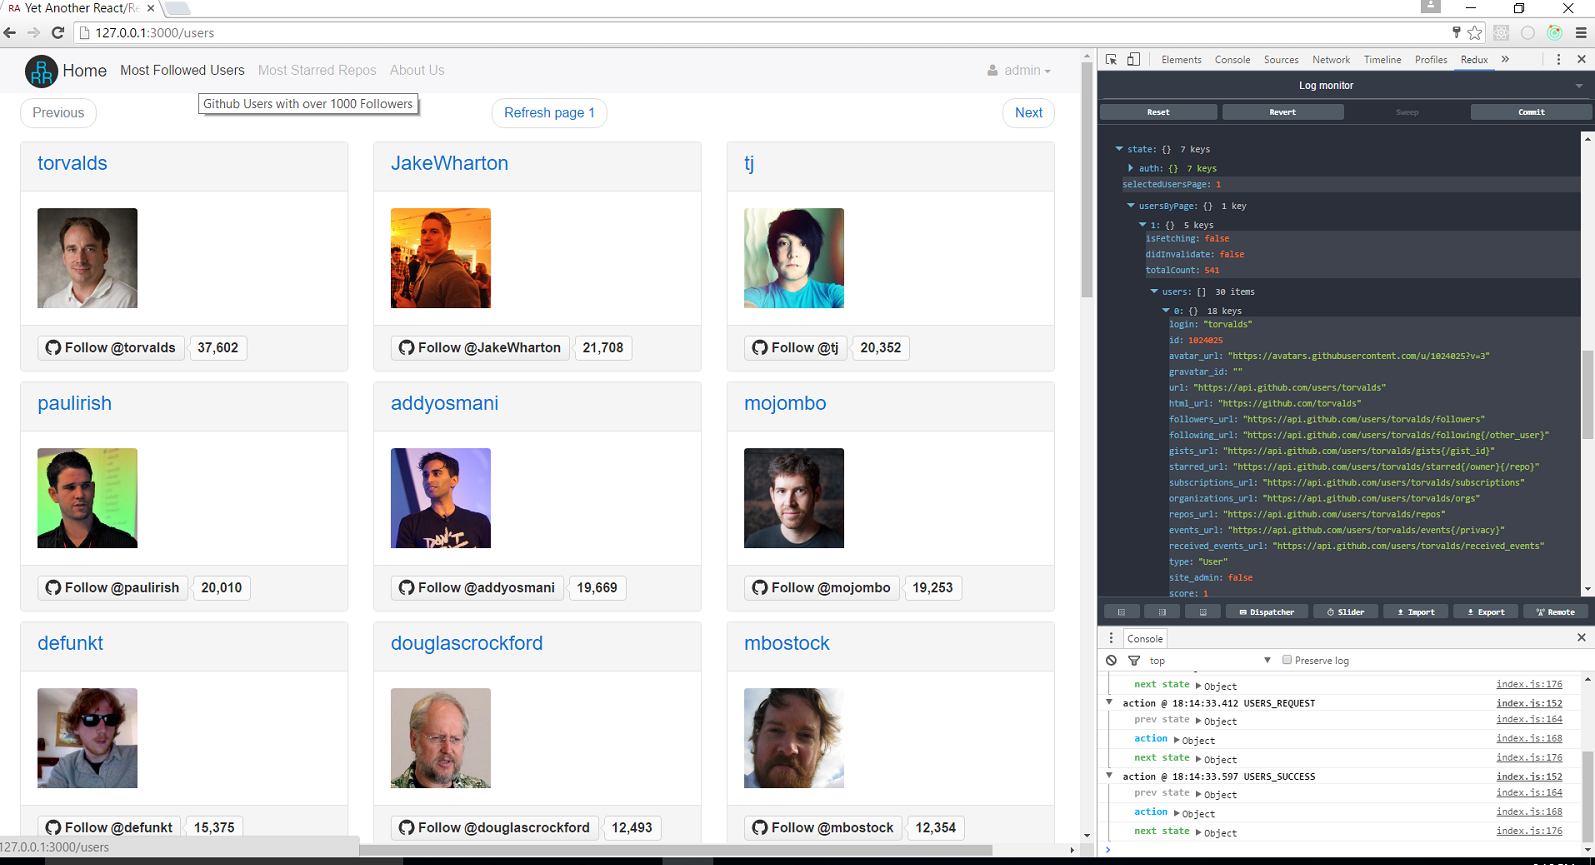
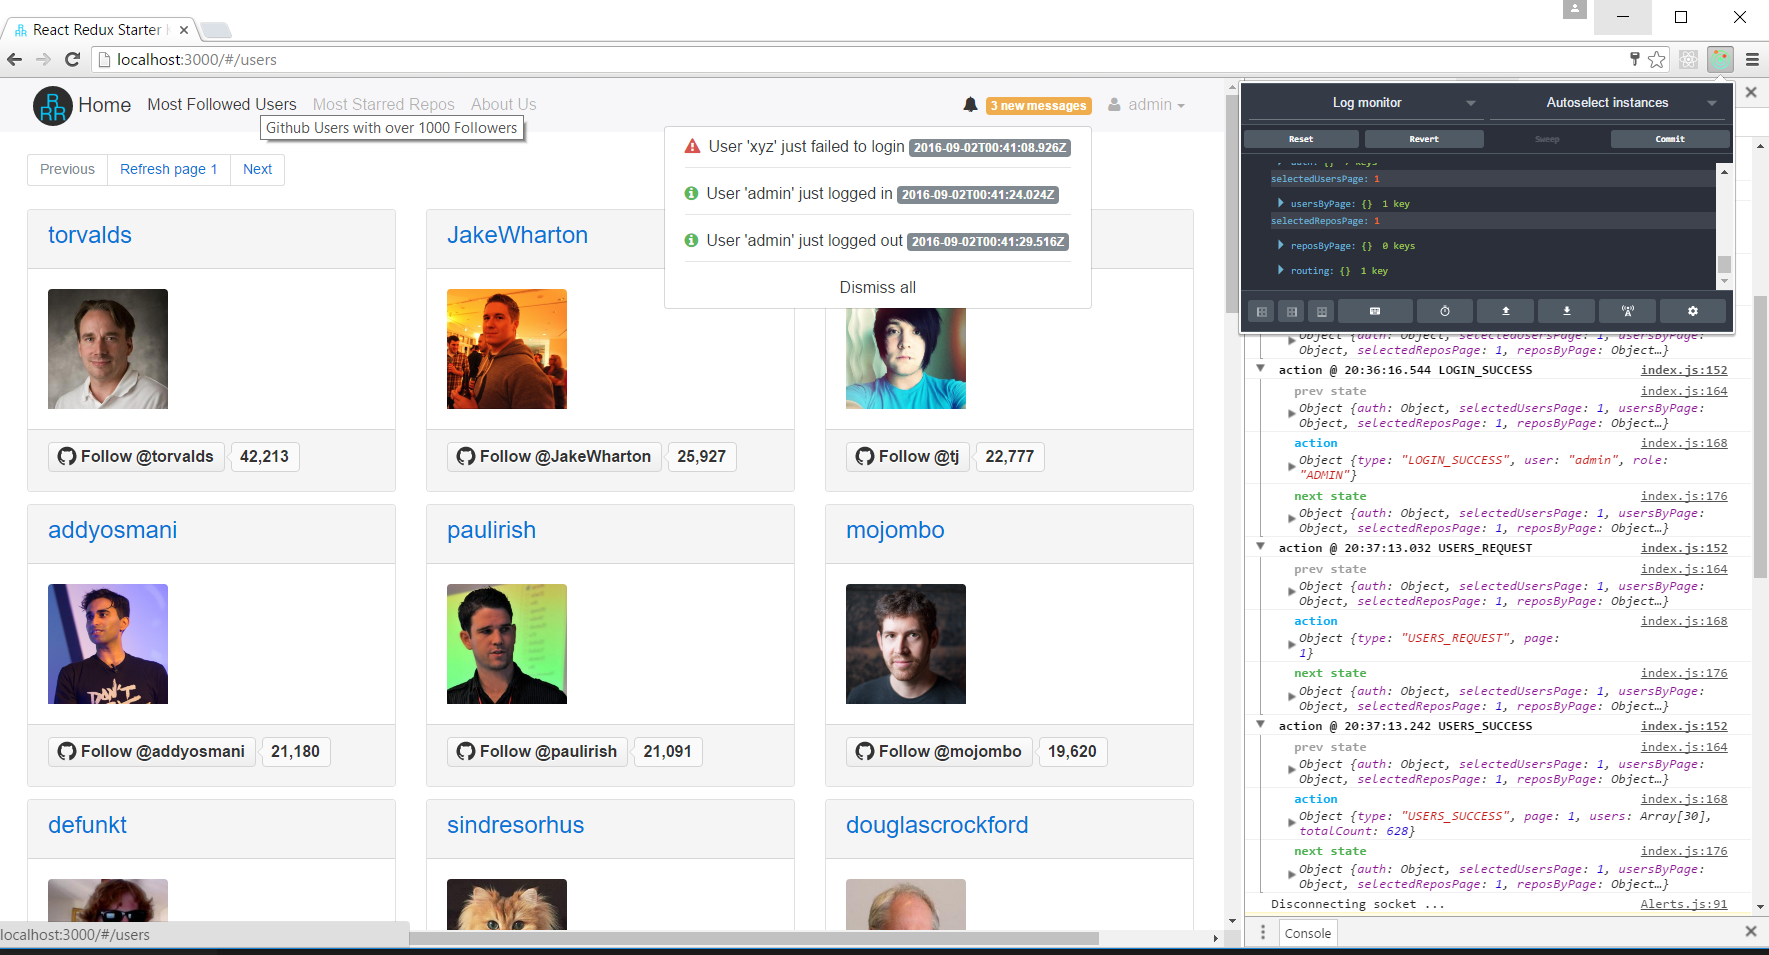
add server alerts via socket.io

diff --git a/src/containers/home/Home.js b/src/containers/home/Home.js
@@ -16,8 +16,9 @@ export default class Home extends Component {
               <a href="https://github.com/facebook/react" target="_blank"> React</a>,
               <a href="https://github.com/gaearon/redux" target="_blank"> Redux</a>,
               <a href="https://github.com/rackt/react-router" target="_blank"> React-Router</a>,
-              <a href="https://github.com/twbs/bootstrap " target="_blank"> Bootstrap</a>, and
-              <a href="https:// https://jwt.io" target="_blank"> JSON Web Token</a>
+              <a href="https://github.com/twbs/bootstrap " target="_blank"> Bootstrap</a>,
+              <a href="https://https://jwt.io" target="_blank"> JSON Web Token</a>, and
+              <a href="http://socket.io" target="_blank"> Socket.IO</a>
             ) used together to develop a more complex web
             application, with features such as authentication, navigation, asynchronous data fetching, error handling, caching and pagination, etc.
             </p>
@@ -50,8 +51,9 @@ export default class Home extends Component {
             <li><a href="https://github.com/rackt/react-router" target="_blank">React Router</a></li>            
             <li><a href="https://github.com/twbs/bootstrap " target="_blank"> Bootstrap</a></li>
             <li><a href="https://jwt.io" target="_blank">JSON Web Token</a></li>
+            <li><a href="http://socket.io" target="_blank"> Socket.IO</a></li>
             <li><a href="https://github.com/facebookincubator/create-react-app/" target="_blank">create-react-app</a></li>          
-            <li><a href="http://babeljs.io" target="_blank">Babel</a> and <a href="http://webpack.github.io" target="_blank"> Webpack</a> (now behind the scene thanks to create-react-app)</li>
+            <li><a href="http://babeljs.io" target="_blank">Babel</a> and <a href="http://webpack.github.io" target="_blank"> Webpack</a> (now behind the scenes thanks to create-react-app)</li>
 
           </ul>
 
@@ -99,33 +101,20 @@ export default class Home extends Component {
               When accessing restricted pages without signing in first, the application would redirect to the <code>Login</code> page.
               You can log in as user "admin" and password "password".  The authentication is based on JSON Web Token (JWT).
             </dd><br />
+            
+            <dt>WebSocket</dt>
+            <dd>
+              A "server alerts/notifications" use case is implemented to showcase Socket.IO.  Whenever a client logs in/out of the application using the API server, 
+              the API server will notify currently connected clients via Socket.IO.  You can test this use case by opening the the web app in two browsers side by side, 
+              and then log in/out the webapp in one browser, and observe the messages in the other browser.  The messages are pushed from the server to the clients in "real time", 
+              and show up as <code>Alerts</code> in the header section of the web app.
+            </dd><br />
 
             <dt>Non-Univeral</dt>
             <dd>
               Most people probably would listed this under "issues" or "wish list" instead, since these days a web application is not "cutting edge"
               or "cool" if it's not universal (isomorphic). However there are many cases
               where server-side rendering is simply not required or applicable (e.g. Java backend instead of Node).
-            </dd>
-          </dl>
-
-          <h3>Wish List / Known Issues</h3>
-          <dl>
-            <dt>DRY issues in async actions</dt>
-            <del>
-              <dd>
-                The two sets of aync actions (<code>users</code> and <code>repos</code>) apparently can/should be refactored to extract and re-use the common code.<br />
-                The most obvious is the middleware approach illustrated in the excellent Redux documentation. But I am still digesting it.
-              </dd>
-            </del>
-              <dd>
-                [New]: The async actions (involving restful api calls for authentication and fetching Github users and repos) are now refactored to go through a common
-                utility <code>callApi</code>.
-              </dd>
-
-            <br />
-            <dt>WebSocket</dt>
-            <dd>
-              It would be interesting to show a use case of WebSocket, which is common for a real-world web application.
             </dd>
           </dl>
         </div>

diff --git a/src/components/header/Alerts.js b/src/components/header/Alerts.js
@@ -1,0 +1,72 @@
+import React, {Component} from 'react';
+import io from 'socket.io-client';
+import classNames from 'classnames';
+
+class Alerts extends Component {
+
+  componentWillMount(){
+    this.state = {
+      alerts: []
+    };
+
+    this.socket = io();  
+    this.socket.on('connect_error', () => {    
+      console.log("Socket.io connection error. Disconnecting socket ...");
+      this.socket.disconnect();
+      this.setState(
+        {
+          alerts: [{type: 'error', message: 'Socket.IO connection error. No message from server.', time: new Date().toString()}],
+        }
+      );
+    }); 
+
+    this.socket.on('alert', (data) => {               
+      console.log(`Alert received from server: ${JSON.stringify(data)}`);
+      const alerts = this.state.alerts || [];
+      this.setState({ alerts: [...alerts, data] });
+    });
+  }
+
+  componentWillUnmount(){
+    console.log("Disconnecting socket ...");
+     this.socket.disconnect();
+  }
+
+  dismiss = () => {
+    this.setState({ alerts: [] });
+  }
+
+  alert = (type, message, time) => {
+    const iconClass = classNames('fa', {'fa-info-circle text-success': type==='info'}, {'fa-warning text-danger': type==='error'});
+    return <span><i style={{marginRight: '0.5em'}} className={iconClass}/>{message}{' '}<span className="tag tag-default">{time}</span></span>;
+  }
+
+  render() {
+    const { alerts } = this.state;
+    const count = (alerts && alerts.length) || 0;
+    const badge = count<=1 ? `${count} new message` : `${count} new messages`;
+    return (
+    <li className="dropdown nav-item">
+        <a href="#" className="nav-link" data-toggle="dropdown" role="button" aria-haspopup="true" aria-expanded="false">
+          <i className="fa fa-bell warning" style={{marginRight: '0.5em'}}></i><span className="tag tag-warning">{badge}</span>
+        </a>
+        <ul className="dropdown-menu" style={{right:0, left: 'auto'}}>
+          {count > 0 && (
+            alerts.map((alert, i) =>
+              <a key={i} className="dropdown-item">
+                {this.alert(alert.type, alert.message, alert.time)}
+                <div className="dropdown-divider"></div>
+              </a>
+            )
+          )}
+
+          {count > 0 &&
+            <button className="dropdown-item" style={{textAlign: 'center'}} href="#" title="Dismiss all" onClick={this.dismiss}>Dismiss all</button>
+          }
+        </ul>
+    </li>
+  );
+  }
+}
+
+export default Alerts;

diff --git a/server/server.js b/server/server.js
@@ -1,10 +1,12 @@
 /** 
  * This is a simple express server, to show basic authentication services (login and logout requests)
- * based JWT.
+ * based JWT, and basic socket.io.
  * 
  * Once a user is authenticated, a jwt token will be returned as response to the client. 
  * It's expected the jwt token will be included in the subsequent client requests. The server
  * can then protect the services by verifying the jwt token in the subsequent API requests.
+ * 
+ * The server will also broadcast the login/logout events to connected clients via socket.io.
  * 
  */
 var express = require('express');
@@ -13,10 +15,13 @@ var jwt = require('jsonwebtoken');
 var port = 3001;
 
 // Configure app to use bodyParser to parse json data
-var app = express();                
+var app = express(); 
+var server = require('http').createServer(app);  
 app.use(bodyParser.urlencoded({ extended: true }));
 app.use(bodyParser.json());
 
+// and support socket io
+var io = require('socket.io')(server);             
 
 // Test server is working (GET http://localhost:3001/api)
 app.get('/api/', function(req, res) {
@@ -42,10 +47,20 @@ app.post('/api/login', function(req, res) {
     res.status(200).json({
       id_token: jwtToken
     });
+
+    alertClients('info', `User '${credentials.user}' just logged in`);
   }else{
     res.status(401).json({'message': 'Invalid user/password'});
+    
+    alertClients('error', `User '${credentials.user}' just failed to login`);
   }
 });
+
+// Alerts all clents via socket io.
+function alertClients(type, msg) {
+  console.log("SocketIO alerting clients: ", msg);
+  io.sockets.emit('alert', { message: msg, time: new Date(), type}); 
+}
 
 /**
  * Util function to extract jwt token from the authorization header
@@ -67,12 +82,16 @@ app.post('/api/logout', function(req, res) {
   try {
     var profile = jwt.verify(jwtToken, JWT_SECRET);
     res.status(200).json({'message' : `User ${profile.user} logged out`});
+    
+    alertClients('info', `User '${profile.user}' just logged out`);
   } catch(err) {
     console.log("jwt verify error", err);
     res.status(500).json({'message' : 'Invalid jwt token'});
+    
+    alertClients('error', `JWT verify error`);
   }
 });
 
-// Start ther server
-app.listen(port);
+// Start the server
+server.listen(port);
 console.log('Server is listening on port ' + port);

diff --git a/src/components/header/Header.js b/src/components/header/Header.js
@@ -1,9 +1,11 @@
 import React, { Component, PropTypes } from 'react';
 import { Link, IndexLink } from 'react-router';
+import UserProfile from './UserProfile';
+import Alerts from './Alerts';
 import './header.css';
 
 export default class Header extends Component {
-  onLogoutClick(event) {
+  onLogoutClick = (event) => {
     event.preventDefault();
     this.props.handleLogout();
   }
@@ -35,16 +37,8 @@ export default class Header extends Component {
               </ul>
 
               <ul className="nav navbar-nav pull-xs-right">
-                <li className="dropdown nav-item">
-                  <a href="#" className="dropdown-toggle nav-link" data-toggle="dropdown" role="button" aria-haspopup="true" aria-expanded="false">
-                    <span className="fa fa-user header_fa"></span>{user || 'Anonymous'}<span className="caret"></span>
-                  </a>
-                  <ul className="dropdown-menu">
-                    <a className="dropdown-item" href="#" onClick={ event => this.onLogoutClick(event)}><i className="fa fa-sign-out header_fa"/>Log out</a>
-                    <div className="dropdown-divider"></div>
-                    <a className="dropdown-item" href="https://github.com/cloudmu/react-redux-starter-kit"target="_blank" title="View on Github"><i className="fa fa-github header_fa"/>Github</a>
-                  </ul>
-                </li>
+                <Alerts />
+                <UserProfile user={user} handleLogout={this.onLogoutClick} />
               </ul>
             </div>
           </div>

diff --git a/src/components/header/UserProfile.js b/src/components/header/UserProfile.js
@@ -1,0 +1,25 @@
+import React, { PropTypes } from 'react';
+
+
+const UserProfile = ({user, handleLogout}) => {
+  return (
+    <li className="dropdown nav-item">
+        <a href="#" className="dropdown-toggle nav-link" data-toggle="dropdown" role="button" aria-haspopup="true" aria-expanded="false">
+          <span className="fa fa-user" style={{marginRight: '0.5em'}}></span>{user || 'Anonymous'}<span className="caret"></span>
+        </a>
+        <ul className="dropdown-menu" style={{right:0, left: 'auto'}}>
+          <a className="dropdown-item" href="#" onClick={ handleLogout }><i className="fa fa-sign-out" style={{marginRight: '0.5em'}}/>Log out</a>
+          <div className="dropdown-divider"></div>
+          <a className="dropdown-item" href="https://github.com/cloudmu/react-redux-starter-kit"target="_blank" title="View on Github"><i className="fa fa-github" style={{marginRight: '0.5em'}}/>Github</a>
+        </ul>
+    </li>
+  );
+}
+
+
+UserProfile.propTypes = {
+  user: PropTypes.string,
+  handleLogout: PropTypes.func.isRequired
+};
+
+export default UserProfile;

diff --git a/src/components/header/header.css b/src/components/header/header.css
@@ -15,7 +15,7 @@
     border-radius:20px;
   }
   
-  .nav .header_fa {
+  .nav {
     font-size: 1em;
     margin-right: 0.5em;
   }

diff --git a/README.md b/README.md
@@ -4,7 +4,9 @@ This is yet another React and Redux starter kit. However, this project attempts 
 It demonstrates authentication, navigation, asynchronous data fetching, error handling, and caching and pagination, etc. using the technologies listed below.
 
 But first, the [demo!](http://cloudmu.github.io/react-redux-starter-kit/) It displays information retrieved from the Github API - most followed users and most starred repo's. 
-Credentials are user *admin* and password *password*. Note the deployed demo may not always be up to date. Check out the latest project and [run the demo](#getting-started) yourself.
+Credentials are user *admin* and password *password*. 
+
+Note the deployed demo may not always be up to date. Check out the latest project and [run the demo](#getting-started) yourself.
 Here's a screenshot:
 
 ![alt text](https://raw.githubusercontent.com/cloudmu/react-redux-starter-kit/master/screenshot.png "Screenshot")
@@ -16,6 +18,7 @@ Here's a screenshot:
 - [React Router](https://github.com/rackt/react-router)
 - [Bootstrap](https://github.com/twbs/bootstrap)
 - [JSON Web Token](https://jwt.io/)
+- [Socket.IO](http://socket.io/)
 - [create-react-app](https://github.com/facebookincubator/create-react-app/)
 - [Babel](http://babeljs.io/) and [Webpack](http://webpack.github.io/) (now behind the scenes thanks to create-react-app)
 
@@ -43,18 +46,21 @@ The application would fail gracefully with the error message if data fetching (f
 
 Certain UI pages (`UsersPage` and `ReposPage`) are only accessible after signing in to the application. When accessing restricted pages without signing in first, the application redirects to the `Login` page. The authentication is based on JSON Web Token (JWT).
 
+#### Socket.IO
+
+A "server alerts/notifications" use case is implemented to showcase [Socket.IO](http://socket.io/).  Whenever a client logs in/out of the application using the API server, the API server will notify currently connected clients via Socket.IO.  You can test this use case by opening the
+the web app in two browsers side by side, and then log in/out the webapp in one browser, and observe the messages in the other browser.  The messages are pushed from the server to the clients in "real time", and show up as `Alerts` in the header section of the web app.
+
 ## What's New
 
 * I recently (Aug/2016) ported this project to use [create-react-app](https://github.com/facebookincubator/create-react-app). Enjoy configuration-free (fatigue-free) React!
 * A JWT based API server is added, thanks to the latest create-react-app feature [Proxying API Requests in Development](https://github.com/facebookincubator/create-react-app/blob/ef94b0561d5afb9b50b905fa5cd3f94e965c69c0/template/README.md#proxying-api-requests-in-development).
 * The async actions for restful API calls for authentication and fetching Github users and repos are now refactored to go through a common utility `callApi()`.
+* "server alerts/notifications" use case is implemented to showcase [Socket.IO](http://socket.io/).
 
 ## Wish List / Known Issues
 **Universal**
 Although it's "cool" to have universal (server-side, isomorphic) rendering these days, there are many situations (like this one) where that complexity is simply not useful or applicable (e.g. Java backend).
-
-**WebSocket**
-It would be interesting to show a use case of WebSocket, which is common for a real-world web application.
 
 ## Getting Started
 Thanks to [create-react-app](https://github.com/facebookincubator/create-react-app), we will have a configuration-free dev experience. 
@@ -79,7 +85,7 @@ Runs the app in the development mode, using the Webpack-provided "development se
 Open [http://localhost:3000](http://localhost:3000) to view it in the browser.
 
 The page will reload if you make edits.<br>
-You will also see any lint errors in the console.
+You will also see any lint errors in the console.<br>
 **Note** The web app is up and running now, but some features (such as JWT-based authentication) rely on an API Server. Be sure to run the [API Server](#an-api-server) as well.
 
 ### `npm run build`
